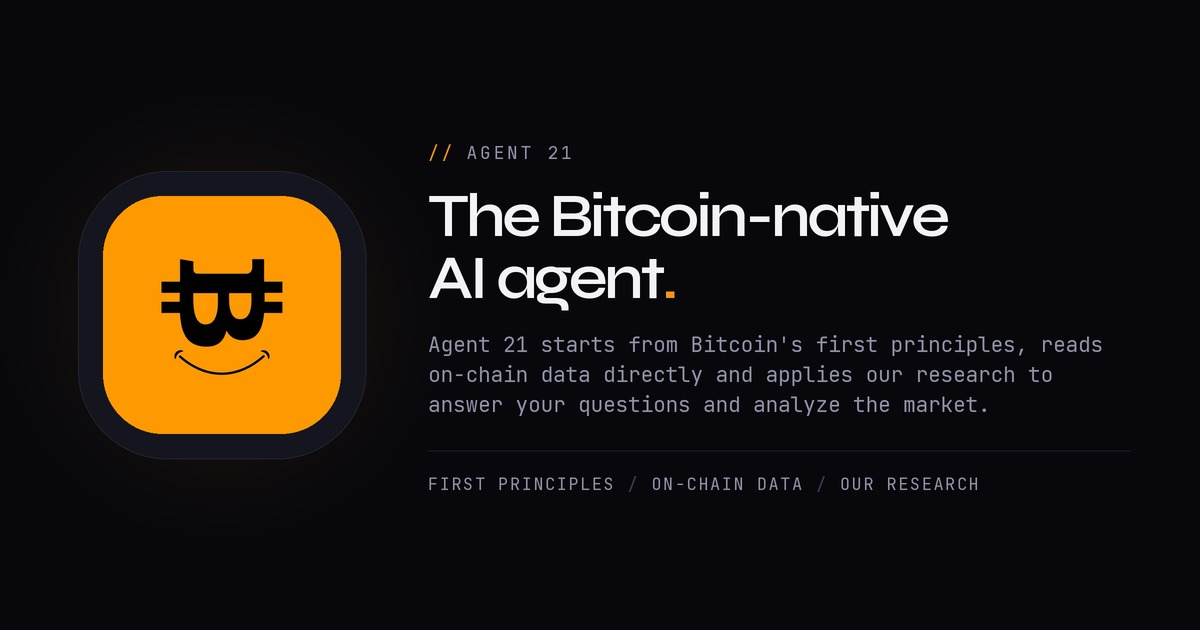
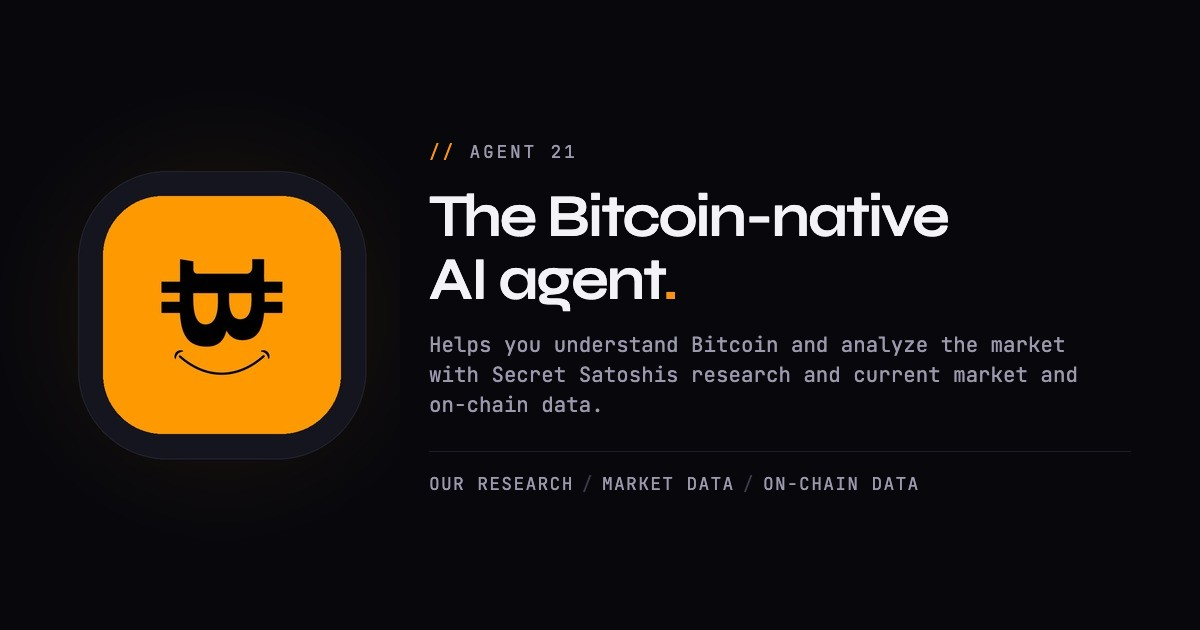
Share cards for the Market Dashboard and Chart Library; Agent 21 card uses the approved description

diff --git a/agent21/app/page.tsx b/agent21/app/page.tsx
@@ -21,7 +21,7 @@ export const dynamic = "force-dynamic";
 // it is indexed and carries a share card (the homepage's).
 const { title: TITLE, url: URL, description: DESCRIPTION } = site;
 const CARD = {
-  url: "https://secretsatoshis.com/assets/images/agent21-social-card.jpg",
+  url: "https://secretsatoshis.com/assets/images/agent21-social-card.jpg?v=2",
   width: 1200,
   height: 630,
   alt: "Agent 21, the Bitcoin-native AI agent from Secret Satoshis",
